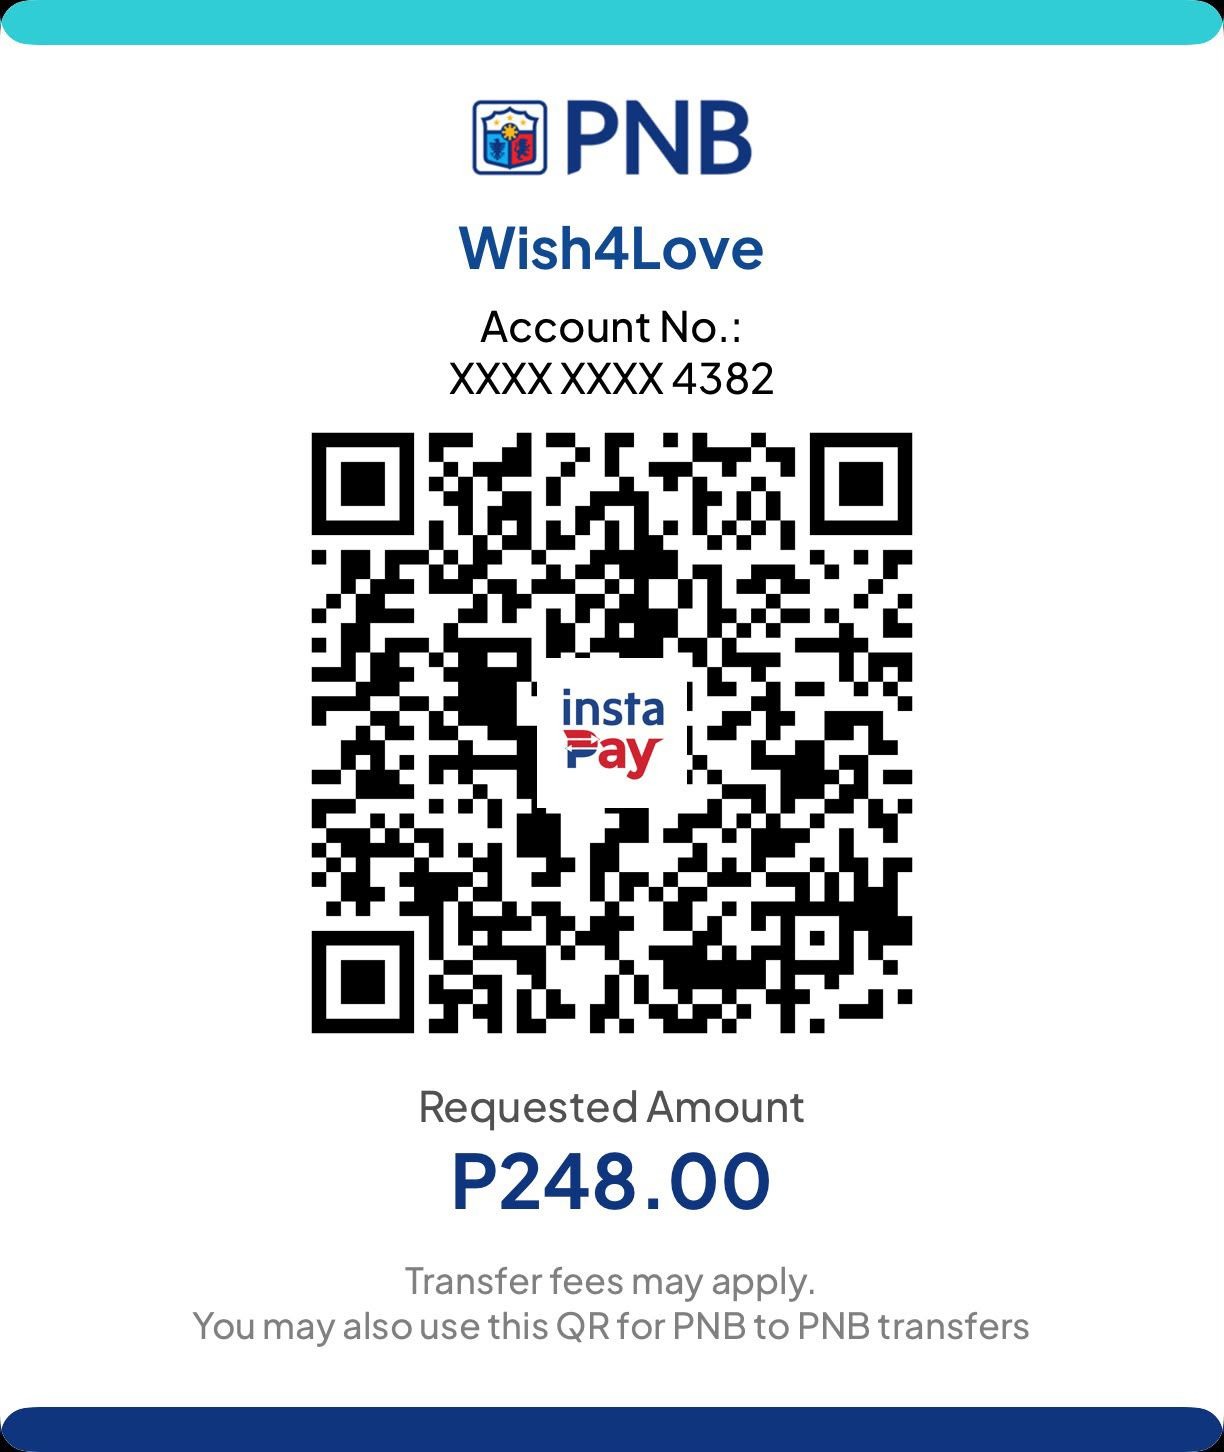
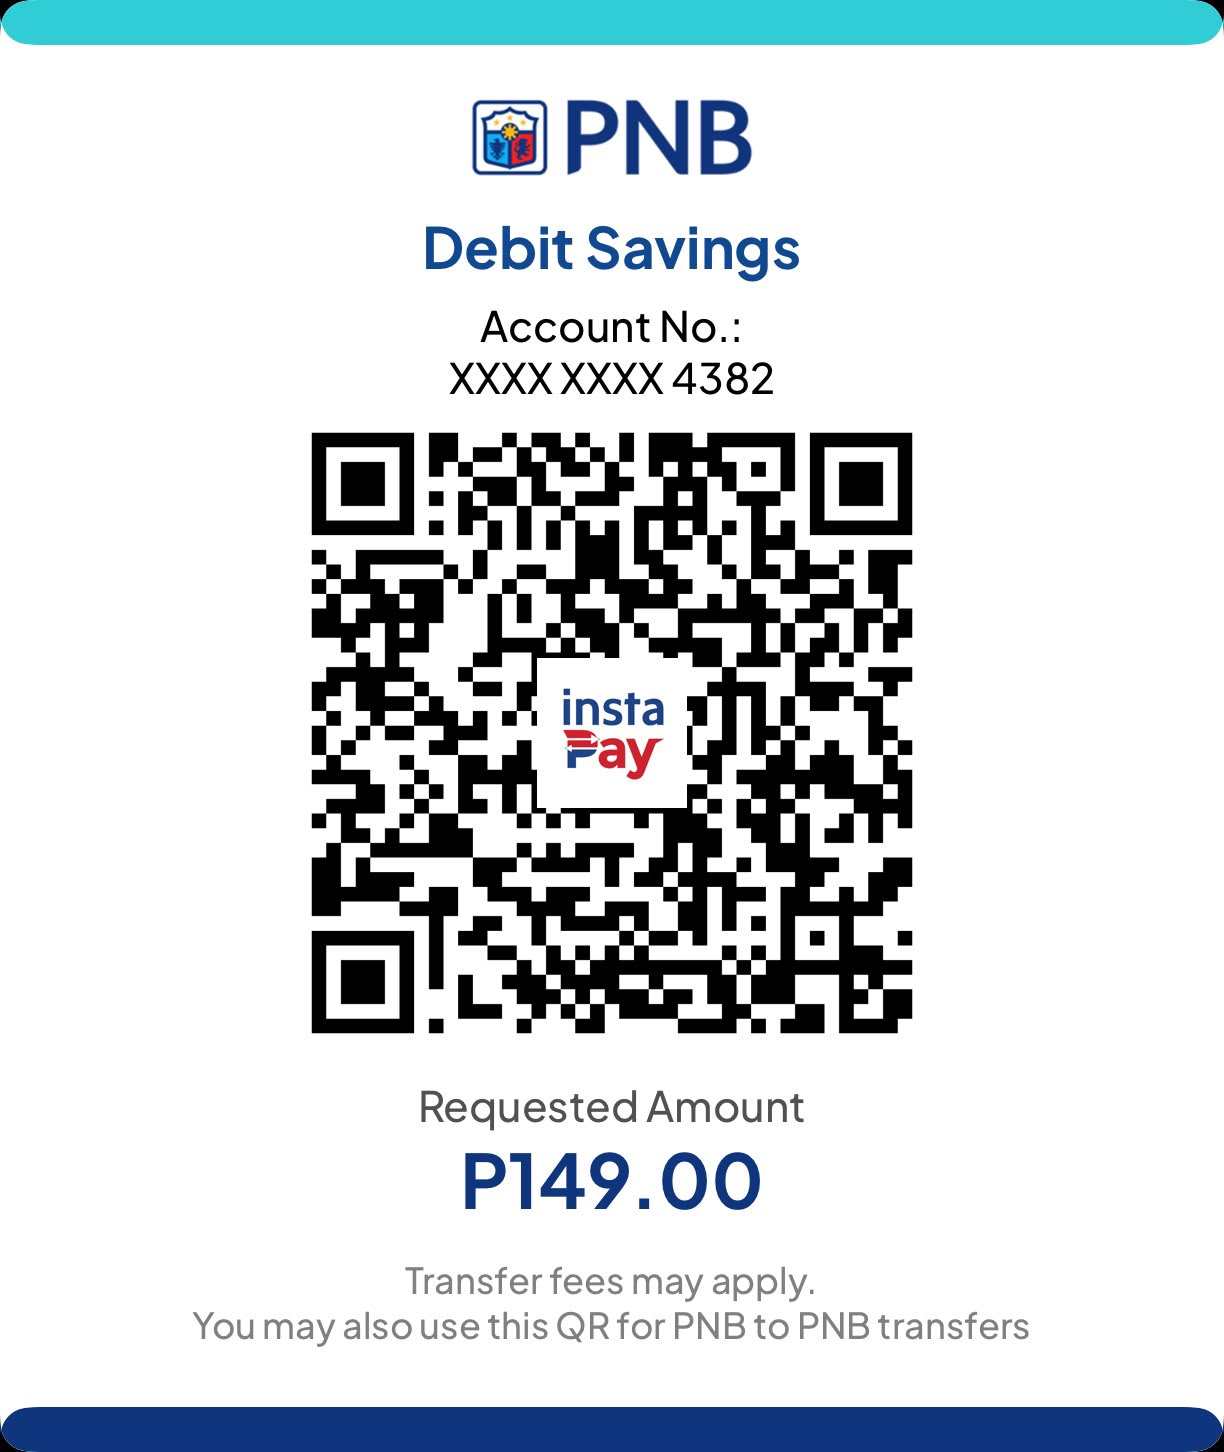
fix: update Philippines QR code and price to ₱149

Changed region(s): [[0.2484, 0.2789, 0.7451, 0.7128], [0.3725, 0.7748, 0.652, 0.8368], [0.3415, 0.155, 0.652, 0.2169]]

diff --git a/src/components/PhilippinesPaymentModal.tsx b/src/components/PhilippinesPaymentModal.tsx
@@ -130,12 +130,12 @@ const PhilippinesPaymentModal = ({
                     QR code coming soon
                   </div>
                 </div>
-                <p className="font-display text-4xl font-bold text-foreground mt-2">₱248</p>
+                <p className="font-display text-4xl font-bold text-foreground mt-2">₱149</p>
                 <p className="font-body text-xs text-muted-foreground">One-time · Letter lives forever</p>
               </div>
 
               <p className="text-center font-body text-xs text-muted-foreground mb-3">
-                Scan the QR, pay ₱248, screenshot your receipt, then tap below.
+                Scan the QR, pay ₱149, screenshot your receipt, then tap below.
               </p>
 
               <motion.button

diff --git a/src/components/letter/PreviewPayment.tsx b/src/components/letter/PreviewPayment.tsx
@@ -344,7 +344,7 @@ const PreviewPayment = ({ letterData, template, onTemplateChange, onPay, onGCash
                   </div>
                   <div className="flex-1">
                     <p className="font-heading text-base font-bold">GCash / Bank Transfer 🇵🇭</p>
-                    <p className="font-body text-xs text-muted-foreground">For Philippines clients · GCash, bank, or any QR app · ₱248</p>
+                    <p className="font-body text-xs text-muted-foreground">For Philippines clients · GCash, bank, or any QR app · ₱149</p>
                   </div>
                 </motion.button>
               </div>

diff --git a/supabase/functions/submit-gcash-payment/index.ts b/supabase/functions/submit-gcash-payment/index.ts
@@ -66,7 +66,7 @@ Deno.serve(async (req) => {
       `<b>To:</b> ${receiver_name}\n` +
       `<b>Type:</b> ${letter_type ?? 'love'}\n` +
       `<b>Email:</b> ${email}\n` +
-      `<b>Amount:</b> ₱248\n` +
+      `<b>Amount:</b> ₱149\n` +
       `<b>Letter ID:</b> ${letter_id}\n\n` +
       `✅ Verify proof → send the link below to <b>${email}</b>`;
 
